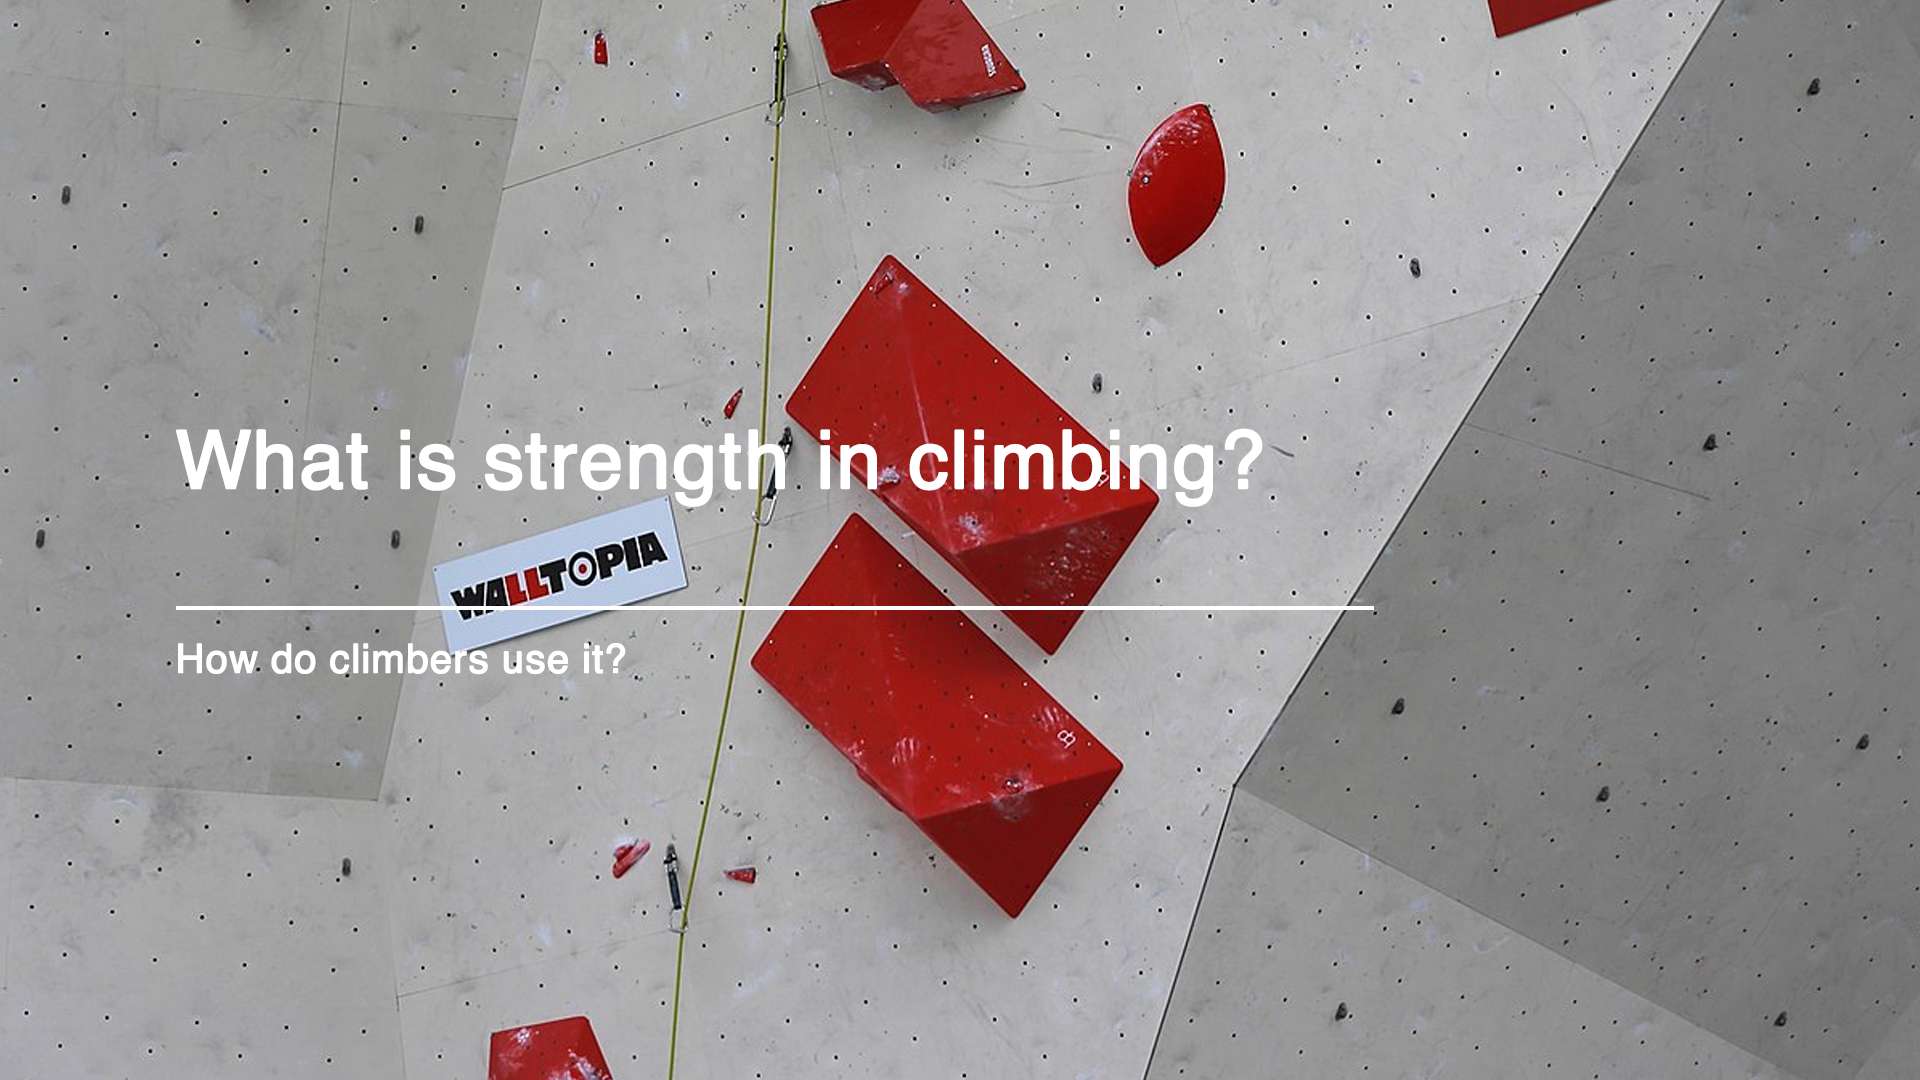
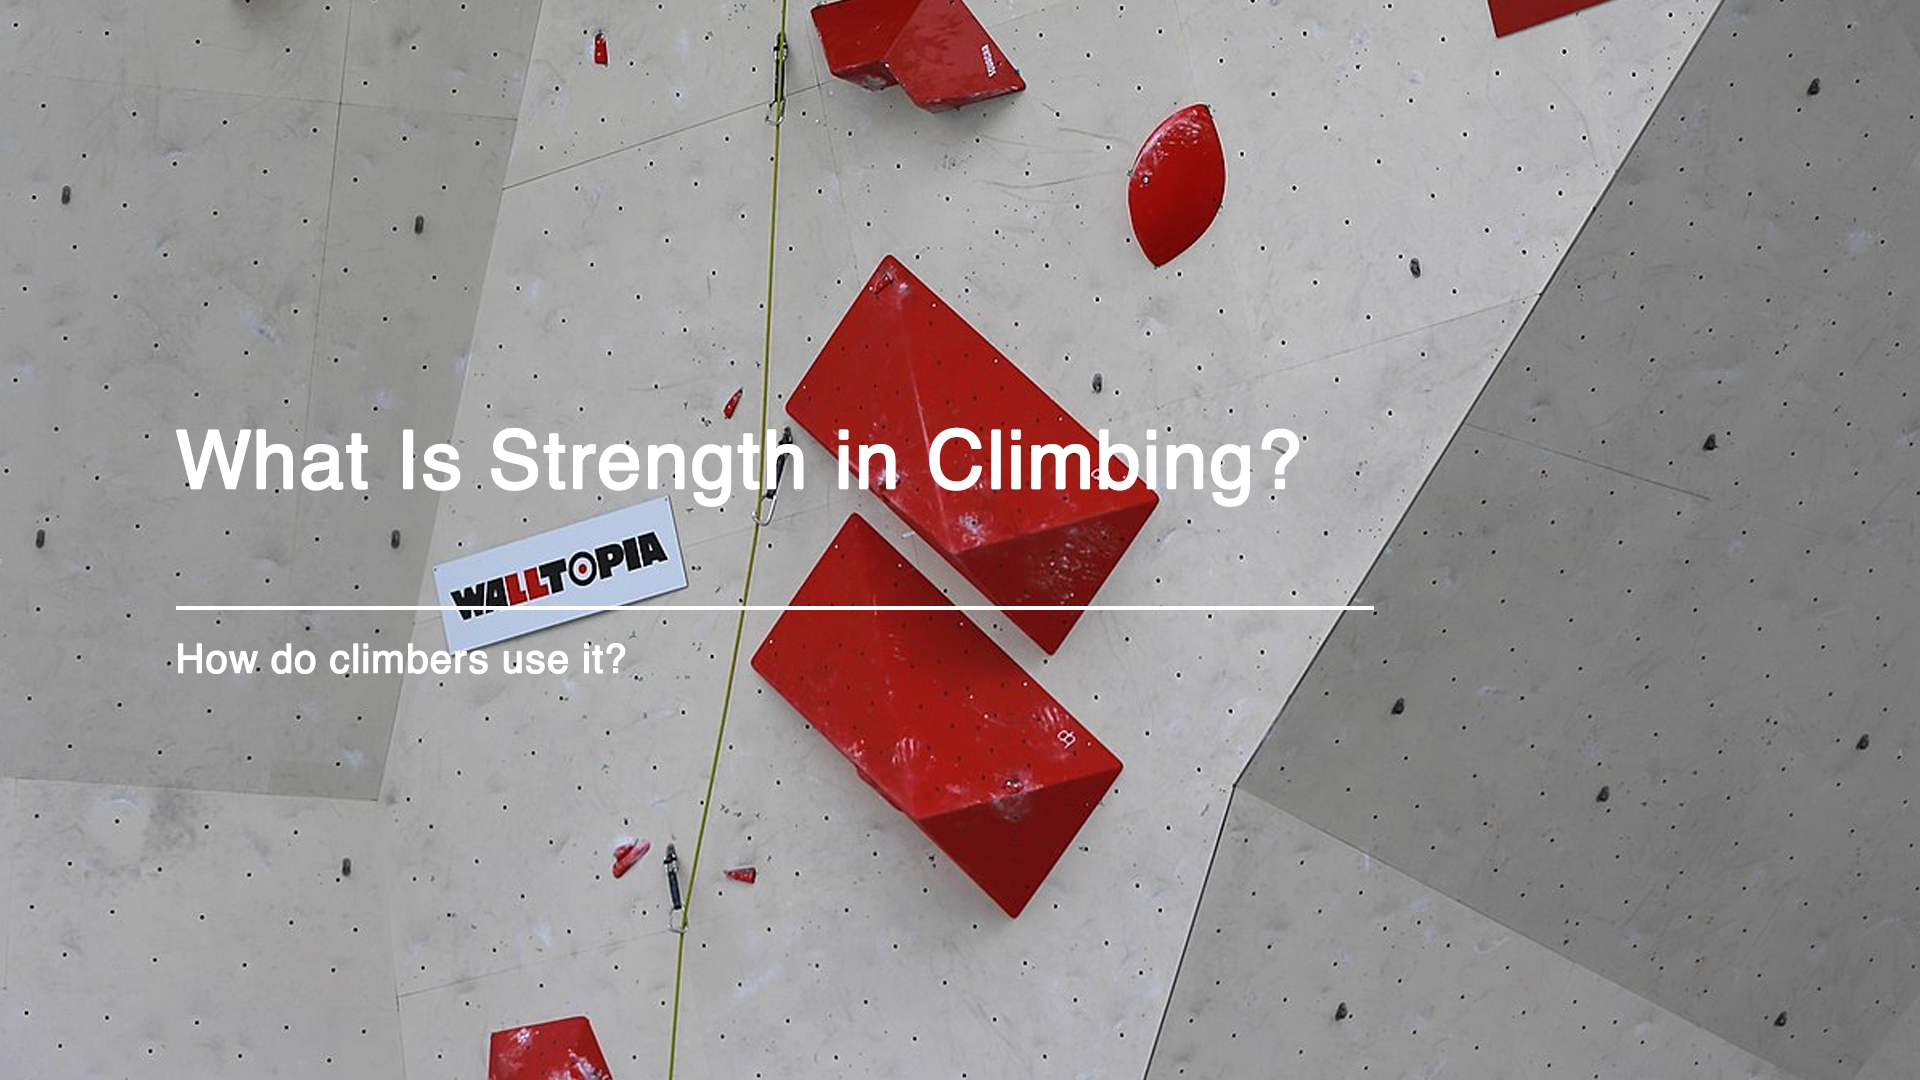
readme and copy

Changed region(s): [[0.1875, 0.3972, 0.6875, 0.4889]]

diff --git a/dev/climbs-thesis/src/App.vue b/dev/climbs-thesis/src/App.vue
@@ -2,7 +2,7 @@
   <div id="app">
     <div class="section thesis-title">
       <!-- <div class="intro-img"></div> -->
-      <h1>What is strength in climbing?</h1>
+      <h1>What Is Strength in Climbing?</h1>
       <div class="line"></div>
       <!-- <h2>Are climbers getting stronger or are there more strong climbers?</h2> -->
       <h2>How do climbers use it?</h2>
@@ -103,7 +103,7 @@
     <div class="section conclusion">
       <!-- <h3>The End</h3>
       <div class="subhead-line"></div> -->
-      <h3>What is Strength in Climbing?</h3>
+      <h3>What Is Strength in Climbing?</h3>
       <div class="subhead-line"></div>
 
       <!-- <p>Based on what we’ve seen to this point, our constant has been the climber and the variables include hold types and size and combinations, route length and angles, body positioning, route grade. With this, we’ll conclude that strength in climbing is the ability for a climber to stay on the wall while moving through the problem.</p> -->

diff --git a/README.md b/README.md
@@ -10,8 +10,7 @@ Project links:
 
 #### Abstract
 ------
-As I’ve delved into climbing, both in practice and research, one thing has quickly become apparent: the continuous effort and never-ending endeavour to get stronger. As I began to look into this further, and developed questions about climbing benchmarks around the world, as well as the rate of strength increase of climbers, I focused my research on two questions: have we as climbers gotten stronger over time, or are there more strong climbers (or both)? Our treatment for this thesis will attempt to answer these questions by understanding what strength is in climbing. We will focus on bouldering and sport/lead climbing. It should be noted that there are other types of climbing, including: top-rope; ice-climbing; mountaineering and trad climbing; free solo and deep water solo. We will analyze several aspects of climbing, including what the records and benchmarks are for climbing routes, what the various grading systems are (how climbs are measured); what makes a climb hard; how climbers get stronger; and other aspects such as the increase in popularity of the sport over time, and accompanying research and literature. As we work on answering the aforementioned questions, we will work to expand the reader’s climbing knowledge and vocabulary throughout this essay.
-
+As I’ve delved into climbing, both in practice and research, one thing has quickly become apparent: the continuous effort to get stronger. As I began to look into this further, and developed questions about climbing benchmarks around the world, as well as the rate of strength increase of climbers, I focused my research on two questions: have we as climbers gotten stronger over time, or are there more strong climbers (or both)? Our treatment for this thesis will attempt to answer these questions by understanding what strength is in climbing. We will focus on bouldering. We will analyze several aspects of climbing, including what the records and benchmarks are for climbing routes, what the various grading systems are (how climbs are measured); what makes a climb hard; how climbers get stronger; and other aspects such as the increase in popularity of the sport over time, and accompanying research and literature. As we work on answering the aforementioned questions, we will work to expand the reader’s climbing knowledge throughout this project.
 
 #### Preview
 ------
